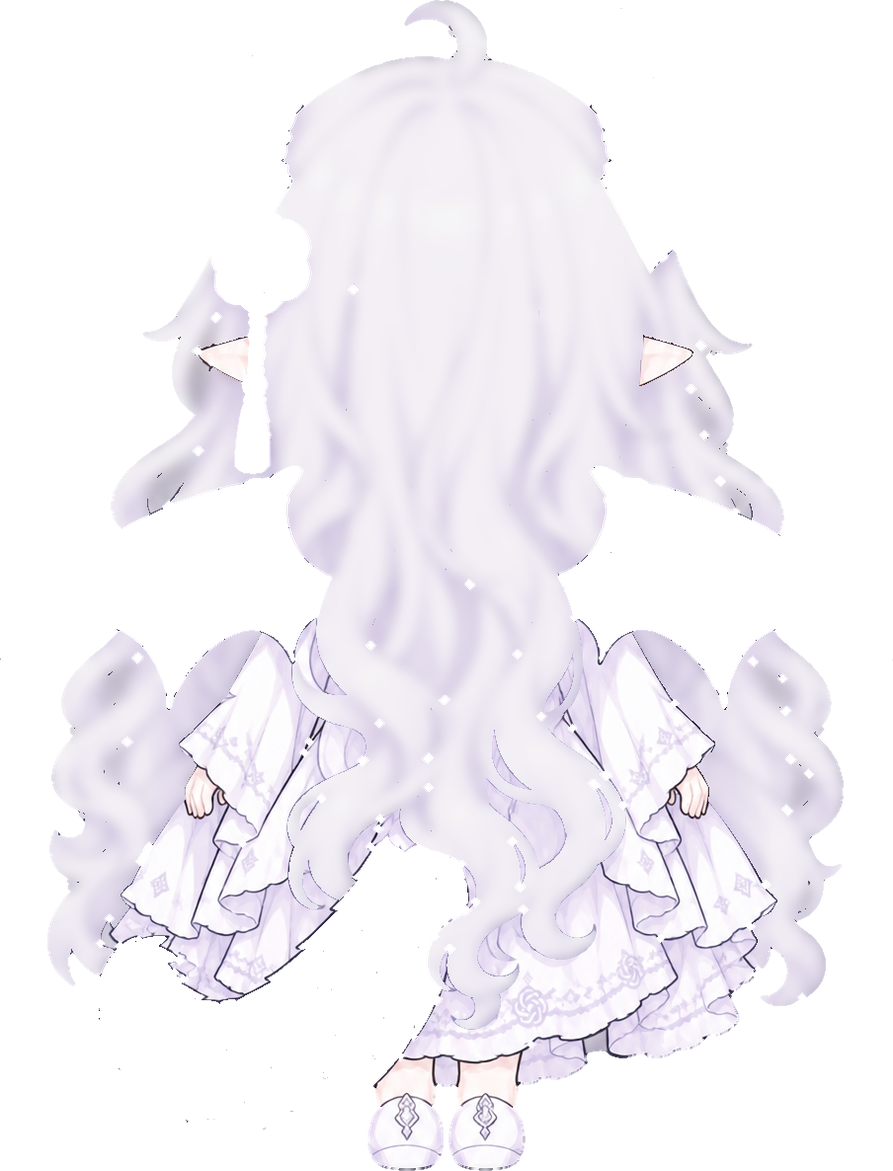
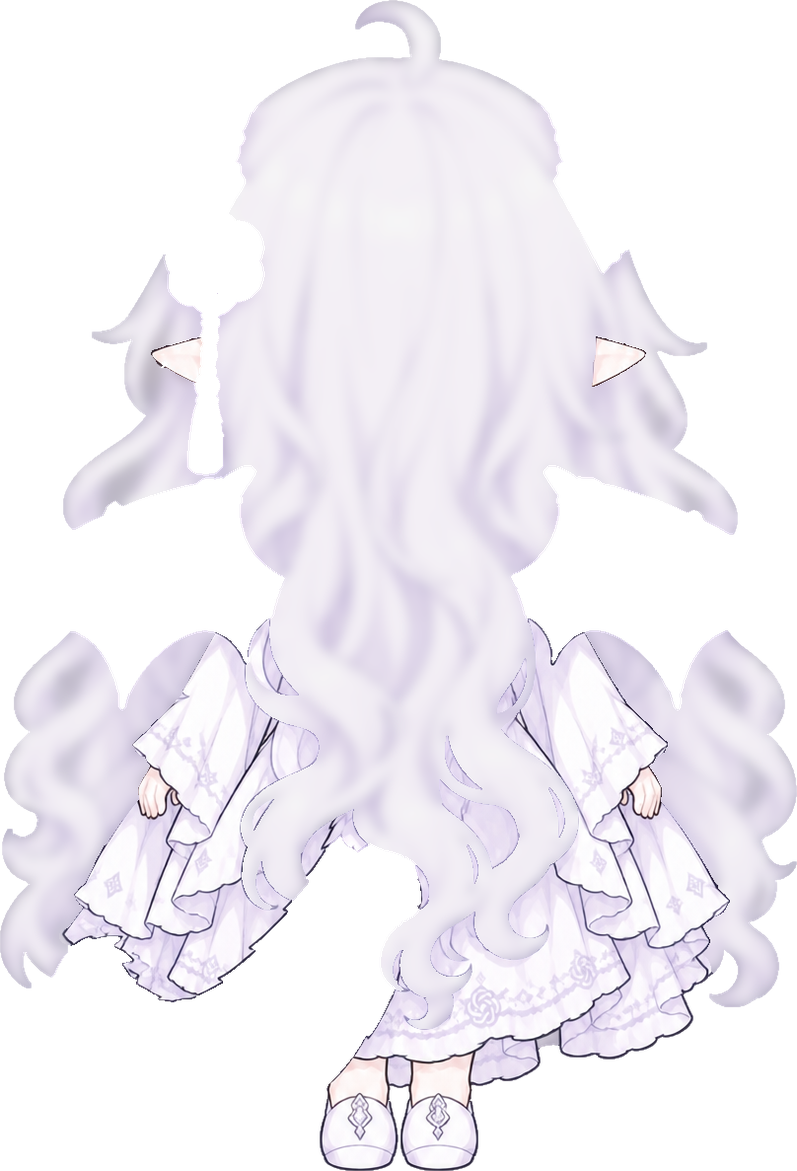
fix(desktop-pet): GPT 娘背影发边不再有碎点，大肥鱼从跪坐站起不再经过坐姿
- GPT 娘背影：黑色光晕底的切边贴到原图描边外侧，描边归到相邻部件跟着头发摆；
  分割图线条交点的小黑点不再当成花饰挖洞（scratch 流水线重出 back_body/back_hair/back_top）
- 大肥鱼：新 seatStep 统一坐姿/跪姿的切换，跪着起身时一直用跪姿画直到站起；跪坐后说坐下仍换坐姿
- 补两个测试（365 个）

diff --git a/packages/cortico-world-desktop-pet/web/whale/figure.js b/packages/cortico-world-desktop-pet/web/whale/figure.js
@@ -136,6 +136,24 @@ export const kneelStep = (b, kneelK, dt) => approach(b, kneelK > (b >= .5 ? .3 :
  * On her eased sitK it landed after take-off, both skirts and both pairs of legs half see-through.
  */
 export const sitStep = (b, sit, airborne, dt) => approach(b, !airborne && (b >= .5 ? sit > .45 : sit > .55) ? 1 : 0, dt, BODY_CUT);
+/**
+ * Her seated lower body and kneeling drawing over a frame: `S` is { sitB, kneelK, kneelB, prevSit } (sitStep's share,
+ * her eased kneel, kneelStep's share, the kit's sit last frame), `o` the kit's frame, `sitK` her eased sit, `lying`
+ * whether she lies at all, `kneelOK` whether the scheme has the kneeling drawing. The drawing cuts in once she is down.
+ * Getting up from a kneel the kit's kneel is already off while she wakes (a second at sit 1) and its sit comes down:
+ * she keeps kneeling until the seated body would go too, rather than showing it (legs forward) on the way up. A sit
+ * word after a kneel leaves the kit's sit where it is, so then she does sit.
+ */
+export function seatStep(S, o, { sitK, airborne = false, lying = false, kneelOK = false }, dt) {
+  const sit = o.sit ?? 0, rising = sit < S.prevSit - 1e-4;
+  const sitB = sitStep(S.sitB, sit, airborne, dt);
+  const keep = kneelOK && !o.kneel && !lying && S.kneelB >= .5 && sitB > 0 && (o.mode === 'wake' || rising);
+  let kneelK = lerp(S.kneelK, o.kneel && kneelOK && !lying ? smooth(.5, 1, sitK) : 0, ease(10, dt));
+  if (kneelK < 1e-3) kneelK = 0;  // the easing alone never reaches zero
+  const kneelB = !kneelOK ? 0 : keep ? approach(S.kneelB, 1, dt, BODY_CUT) : kneelStep(S.kneelB, kneelK, dt);
+  return { sitB, kneelK, kneelB, prevSit: sit };
+}
+const SEATED_NOT = { sitB: 0, kneelK: 0, kneelB: 0, prevSit: 0 };
 export function lieStep(L, lieK, dt) {
   const on = L.on ? lieK > LIE_CUT.up : lieK > LIE_CUT.down;
   return { on, a: approach(L.a, on ? 1 : 0, dt, BODY_CUT) };
@@ -444,8 +462,7 @@ export async function createWhaleFigure(base = new URL('./', import.meta.url), o
     for (const p of KNEEL_PARTS) parts.push({ ...p, alpha: 0 });
   }
   const kneelOK = () => !!(cur.kneel && (!fade || fade.set.kneel));
-  let kneelK = 0, kneelB = 0;  // her eased kneel; the kneeling drawing's share (kneelStep)
-  let sitB = 0;  // the seated lower body's share (sitStep)
+  let seat = SEATED_NOT;  // her seated lower body and kneeling drawing (seatStep)
   /** Whether her back can show now: she has the drawing and is standing (seated or lying she turns as before). */
   const backable = () => !!BACK && backOK() && sitK < .5 && !lieK;
 
@@ -935,8 +952,9 @@ export async function createWhaleFigure(base = new URL('./', import.meta.url), o
     const lift = o.legs.map(l => clamp(29 - Math.hypot(l[2] - l[0], l[3] - l[1]), -8, 20));
     // sitting swaps the lower body for its own drawing (skirt spread on the floor, legs forward) in a frame halfway
     // down (on the kit's own sit: sitK lags it), under a little squash; a crossfade would show both skirts at once
-    sitB = sitStep(sitB, o.sit ?? 0, airborne, dt);
-    const sitIn = sitB, plop = Math.sin(Math.PI * smooth(.3, .8, sitK));
+    // (kneeling, the kneeling drawing cuts in over the seated rig once she is down, and stays till she is up: seatStep)
+    seat = seatStep(seat, o, { sitK, airborne, lying: !!lieK, kneelOK: !!KNEEL && kneelOK() }, dt);
+    const sitIn = seat.sitB, plop = Math.sin(Math.PI * smooth(.3, .8, sitK));
 
     /* arms: swing against the legs when walking, out in the air, flailing when held */
     let aN = 4, aF = -2;
@@ -1176,10 +1194,7 @@ export async function createWhaleFigure(base = new URL('./', import.meta.url), o
       for (const p of ROLL.required) st.alpha[p.id] = tex[p.tex] ? ballA : 0;
     }
     // kneeling: once she is down, the kneeling drawing cuts in over the seated rig (which then goes), as lying does
-    kneelK = lerp(kneelK, o.kneel && KNEEL && kneelOK() && !lieK ? smooth(.5, 1, sitK) : 0, ease(10, dt));
-    if (kneelK < 1e-3) kneelK = 0;
-    kneelB = KNEEL && kneelOK() ? kneelStep(kneelB, kneelK, dt) : 0;
-    const kneelA = kneelB;
+    const kneelA = seat.kneelB;
     if (KNEEL) {
       st.kneel = { sx: 1 + .006 * breath, sy: 1 - .012 * breath };
       const shutK = eyesShut(o, fc.eyes, mode);
@@ -1371,7 +1386,7 @@ export async function createWhaleFigure(base = new URL('./', import.meta.url), o
     reset() {
       endFade();
       for (const k in sp) { sp[k].x = 0; sp[k].v = 0; }
-      lastT = null; prevTilt = 0; prevYaw = 0; prevLow = 0; headTilt = 0; wTilt = 0; wLean = 0; finMood = 0; tailMood = 0; wagAmp = 0; sitK = 0; danceK = 0; lieK = 0; lieB = { on: false, a: 0 }; kneelK = 0; kneelB = 0; sitB = 0; poseShown = 0; kickPh = 0; chinK = 0; backA = 0; awayA = 0; steam = 0; puffK = 0; frozenOK = false; stoneK = 0;
+      lastT = null; prevTilt = 0; prevYaw = 0; prevLow = 0; headTilt = 0; wTilt = 0; wLean = 0; finMood = 0; tailMood = 0; wagAmp = 0; sitK = 0; danceK = 0; lieK = 0; lieB = { on: false, a: 0 }; seat = SEATED_NOT; poseShown = 0; kickPh = 0; chinK = 0; backA = 0; awayA = 0; steam = 0; puffK = 0; frozenOK = false; stoneK = 0;
     },
     /** Loads every scheme's textures, so later switches are immediate. */
     preload: () => Promise.all(SCHEMES.map(sc => loadScheme(sc.id))),

diff --git a/tests/gpt-figure.test.js b/tests/gpt-figure.test.js
@@ -1,4 +1,5 @@
 import { existsSync, readdirSync, readFileSync } from 'node:fs';
+import { inflateSync } from 'node:zlib';
 import { describe, expect, it } from 'vitest';
 import { createPet, FACES, ROLL_D as KIT_ROLL_D, KIT_EXPRESSIONS, KIT_MOTIONS, PLUS_EXPRESSIONS, PLUS_FACES, PLUS_MOTIONS, STAND } from '../packages/cortico-world-desktop-pet/web/kit/body.js';
 import {
@@ -25,6 +26,45 @@ const ALL_WORDS = [...KIT_MOTIONS, ...PLUS_MOTIONS];
 function png(url) {
   const b = readFileSync(url);
   return { w: b.readUInt32BE(16), h: b.readUInt32BE(20), colorType: b[25] };
+}
+/** The alpha channel of an 8-bit RGBA, non-interlaced PNG: { w, h, a }. */
+function alphaOf(url) {
+  const b = readFileSync(url), w = b.readUInt32BE(16), h = b.readUInt32BE(20);
+  expect(b[24] === 8 && b[25] === 6 && b[28] === 0, 'an 8-bit RGBA PNG, not interlaced').toBe(true);
+  const idat = [];
+  for (let o = 8; o < b.length; o += 12 + b.readUInt32BE(o)) if (b.toString('ascii', o + 4, o + 8) === 'IDAT') idat.push(b.subarray(o + 8, o + 8 + b.readUInt32BE(o)));
+  const raw = inflateSync(Buffer.concat(idat)), row = w * 4, px = new Uint8Array(row * h), a = new Uint8Array(w * h);
+  for (let y = 0; y < h; y++) {
+    const f = raw[y * (row + 1)], src = y * (row + 1) + 1, dst = y * row;
+    for (let i = 0; i < row; i++) {
+      const l = i >= 4 ? px[dst + i - 4] : 0, u = y ? px[dst + i - row] : 0, ul = y && i >= 4 ? px[dst + i - row - 4] : 0;
+      const p = l + u - ul, pa = Math.abs(p - l), pb = Math.abs(p - u), pc = Math.abs(p - ul);
+      px[dst + i] = (raw[src + i] + [0, l, u, (l + u) >> 1, pa <= pb && pa <= pc ? l : pb <= pc ? u : ul][f]) & 255;
+    }
+  }
+  for (let i = 0; i < w * h; i++) a[i] = px[i * 4 + 3];
+  return { w, h, a };
+}
+/** Sizes of the connected regions where `on(i)` holds (8-connected, or 4-), and whether each touches the border. */
+function regions({ w, h }, on, eight = true) {
+  const seen = new Uint8Array(w * h), out = [], st = [];
+  const nb = eight ? [[-1, -1], [0, -1], [1, -1], [-1, 0], [1, 0], [-1, 1], [0, 1], [1, 1]] : [[0, -1], [-1, 0], [1, 0], [0, 1]];
+  for (let s = 0; s < w * h; s++) {
+    if (seen[s] || !on(s)) continue;
+    let n = 0, edge = false;
+    seen[s] = 1; st.push(s);
+    while (st.length) {
+      const i = st.pop(), x = i % w, y = (i - x) / w;
+      n++;
+      if (!x || !y || x === w - 1 || y === h - 1) edge = true;
+      for (const [dx, dy] of nb) {
+        const X = x + dx, Y = y + dy, j = Y * w + X;
+        if (X >= 0 && Y >= 0 && X < w && Y < h && !seen[j] && on(j)) { seen[j] = 1; st.push(j); }
+      }
+    }
+    out.push({ n, edge });
+  }
+  return out;
 }
 const inside = ([x, y], [x0, y0, x1, y1], m = 0) => x >= x0 - m && x <= x1 + m && y >= y0 - m && y <= y1 + m;
 const rectOf = b => [b[0], b[1], b[0] + b[2], b[1] + b[3]];
@@ -939,6 +979,16 @@ describe.skipIf(!real)('GPT-chan: model.json and its files', () => {
     }
     expect(prev).toBe(0);
     expect(drop).toBeLessThan(.2);
+  });
+  it('cuts her back drawings clean: no stray specks off them, no pinholes the swaying hair would open', () => {
+    // the back is cut from a dark-glow picture along its segmentation map; a cut along the map's (stepped, a few px off)
+    // edge leaves bits of her outline as specks, and the map's line-join dots as 'flower' punch holes in hair and body
+    for (const tex of ['back_body', 'back_hair', 'back_top']) {
+      const t = alphaOf(new URL(`tex/${tex}.png`, DIR)), a = t.a;
+      const specks = regions(t, i => a[i] >= 128).filter(r => r.n < 50).length;
+      const holes = regions(t, i => a[i] < 128, false).filter(r => !r.edge && r.n < 200).length;
+      expect(specks + holes, `${tex}: ${specks} specks, ${holes} pinholes`).toBeLessThanOrEqual(3);
+    }
   });
   it('squashes her for the roll only when the ball is hers (else the kit does)', () => {
     const minSy = without => {

diff --git a/tests/whale-pose.test.js b/tests/whale-pose.test.js
@@ -1,8 +1,8 @@
 import { readFileSync, existsSync } from 'node:fs';
 import { inflateSync } from 'node:zlib';
 import { describe, expect, it } from 'vitest';
-import { poseMix, lieStep, LIE_CUT, BODY_CUT, kneelStep, sitStep, lieDeformers, kickField, KICK, eyesShut, waveHandover, ARM_LIMIT, ARM_SPRING, cheerHandover, CHEER_TO, CHEER_ENV, chinWanted, FAR_ARM_GESTURES, backTailField, backView, awayStep, PROP_GESTURES, BOTH_HANDS, NEAR_RAISES, BENT_RAISES, FAR_RAISES, RAISE_TO, lyingMouth, sipLift, rollTurn, ballMix, ballLift, ballAngle, ROLL_D as WHALE_ROLL_D } from '../packages/cortico-world-desktop-pet/web/whale/figure.js';
-import { ROLL_D, rollTurn as coreRollTurn } from '../packages/cortico-world-desktop-pet/web/kit/body.js';
+import { poseMix, lieStep, LIE_CUT, BODY_CUT, kneelStep, sitStep, seatStep, lieDeformers, kickField, KICK, eyesShut, waveHandover, ARM_LIMIT, ARM_SPRING, cheerHandover, CHEER_TO, CHEER_ENV, chinWanted, FAR_ARM_GESTURES, backTailField, backView, awayStep, PROP_GESTURES, BOTH_HANDS, NEAR_RAISES, BENT_RAISES, FAR_RAISES, RAISE_TO, lyingMouth, sipLift, rollTurn, ballMix, ballLift, ballAngle, ROLL_D as WHALE_ROLL_D } from '../packages/cortico-world-desktop-pet/web/whale/figure.js';
+import { createPet, ROLL_D, rollTurn as coreRollTurn } from '../packages/cortico-world-desktop-pet/web/kit/body.js';
 
 const WHALE = new URL('../packages/cortico-world-desktop-pet/web/whale/', import.meta.url);
 const model = JSON.parse(readFileSync(new URL('model.json', WHALE), 'utf8'));
@@ -730,5 +730,39 @@ describe('lying mouths and kneeling, as the whale draws them', () => {
     expect(Math.abs(y + h - 256)).toBeLessThan(3);
     expect(Math.abs(x + w / 2 - 128)).toBeLessThan(25);
     expect(p.z).toBeGreaterThan(Math.max(...model.parts.map(q => q.z)));
+  });
+  it('gets up from kneeling on the kneeling drawing, never the seated one; a sit word after a kneel does sit', () => {
+    // the kit's body (plus) running, and every frame it hands over stepped as the figure steps it
+    const el = () => ({ setAttribute() {}, innerHTML: '' });
+    let seat = { sitB: 0, kneelK: 0, kneelB: 0, prevSit: 0 }, sitK = 0;
+    const fig = {
+      draw(_g, _fc, o) {
+        sitK += (Math.min(1, Math.max(0, o.sit ?? 0)) - sitK) * (1 - Math.exp(-12 / 60));
+        seat = seatStep(seat, o, { sitK, airborne: o.mode === 'air', kneelOK: true }, 1 / 60);
+      },
+      poses: { kneel: true },
+    };
+    const pet = createPet({ petG: el(), shadowEl: el(), fxG: el() }, { sfx: { play() {} }, figure: fig, plus: true, roam: 'off', bounds: () => ({ W: 1200, H: 400, floorY: 380, S: .42 }) });
+    pet.resize();
+    const run = (s, each = () => {}) => { for (let i = 0; i < s * 60; i++) { pet.step(1 / 60); pet.render(); each(); } };
+    run(.5);
+    // standing up (the kit wakes her, a second at sit 1), walking off, or sent somewhere (a startled wake, sit at once
+    // to 0): kneeling until the seated body is gone
+    for (const up of ['stand', 'walk', 'walkTo']) {
+      pet.doWord('kneel'); run(3);
+      expect(seat.kneelB, up).toBe(1);
+      if (up === 'walkTo') pet.walkTo(pet.pet.x + 300, false, 1); else pet.doWord(up);
+      let seatedShown = 0;
+      run(4, () => { if (seat.sitB > 0 && seat.kneelB < 1) seatedShown++; });
+      expect(seatedShown, up).toBe(0);
+      expect(seat.kneelB, up).toBe(0);
+      expect(seat.sitB, up).toBe(0);
+    }
+    pet.doWord('kneel'); run(3);
+    pet.doWord('sit'); run(2);
+    expect(seat.kneelB).toBe(0);
+    expect(seat.sitB).toBe(1);
+    // without the drawing she kneels as the seated rig
+    expect(seatStep({ sitB: 1, kneelK: 1, kneelB: 1, prevSit: 1 }, { sit: 1, kneel: true, mode: 'sit' }, { sitK: 1 }, 1 / 60).kneelB).toBe(0);
   });
 });
